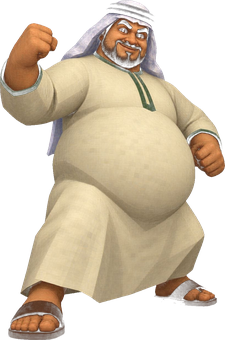
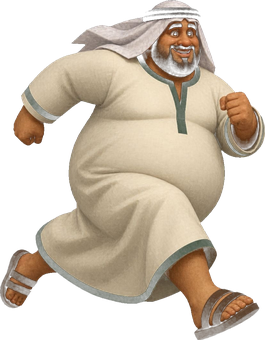
وضعية ركض جديدة (الصورة المرسلة) + الركض مربوط بالتحكم بدل السرعة

diff --git a/index.html b/index.html
@@ -655,16 +655,16 @@ canvas{display:block;border-radius:14px;box-shadow:0 10px 30px #0006;background:
     var a = (P.inv > 0 && Math.floor(tGlobal * 16) % 2 === 0) ? 0.45 : 1;
     /* إطار الركض: مع فاصل (hysteresis) حتى لا يرفّ بين الإطارين */
     var spd = Math.abs(P.vx);
-    if (spd > 30) runLatch = true; else if (spd < 12) runLatch = false;
+    runLatch = (keys.l || keys.r);            /* الركض مربوط بالتحكم — ثابت بلا رفرفة */
     var running = runLatch && P.on;
     var lift = 0, stretch = 0, squash = 0, lean = 0;
     if (running) {
       var s1 = Math.abs(Math.sin(P.anim * 3.2));
       lift = -s1 * 2.6;                      // نطة الجري
       stretch = s1 * 0.035;                  // تمدد بسيط
-      lean = 0.055;                          // ميل ثابت للأمام (ثابت = بلا رجفة)
+      lean = 0.028;                          // ميل ثابت للأمام (ثابت = بلا رجفة)
       /* غبار تحت النعل */
-      if (tGlobal - lastDust > 0.1) {
+      if (spd > 25 && tGlobal - lastDust > 0.1) {
         lastDust = tGlobal;
         particles.push({ x: P.x + P.w / 2 - P.face * 8, y: P.y + P.h - 2, vx: -P.face * rnd(15, 45), vy: rnd(-25, -2), life: 0.35, c: '#e3cf9e', r: rnd(1.6, 3) });
       }
